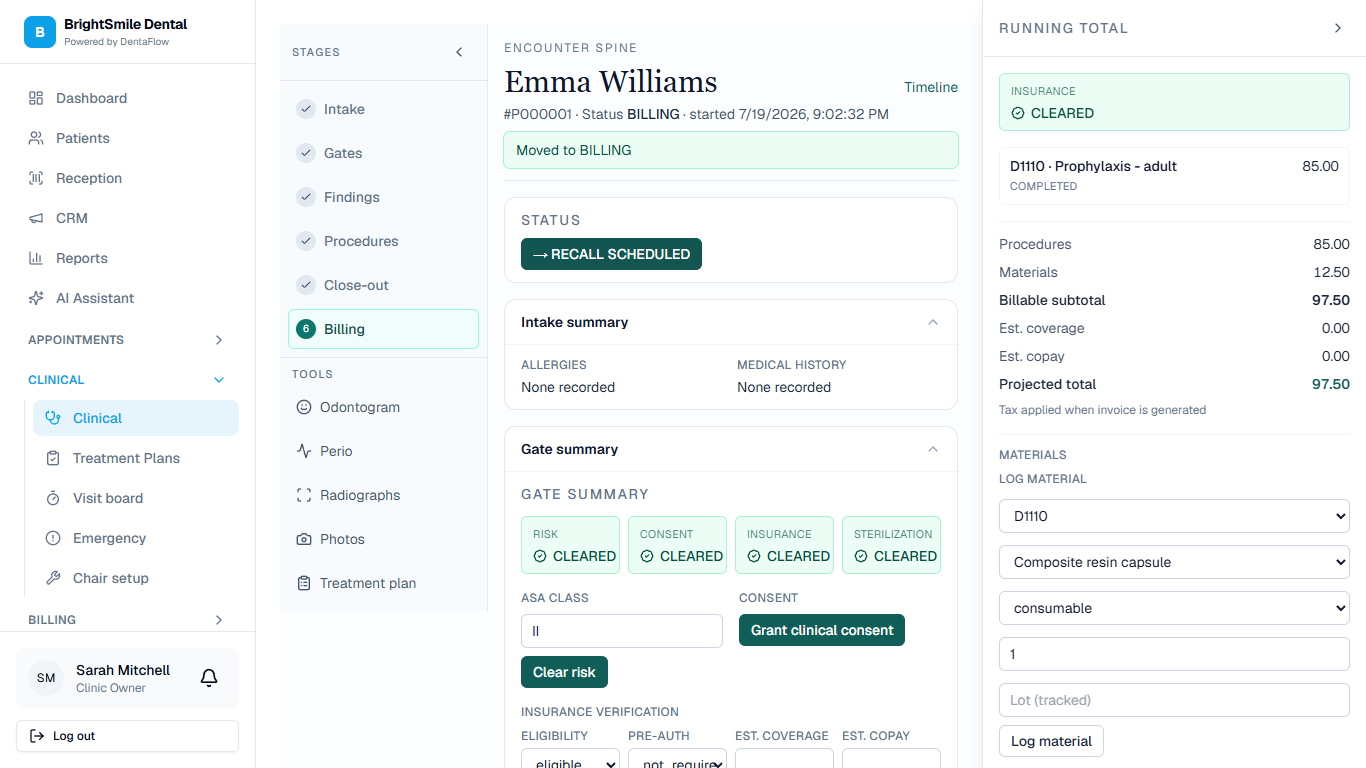
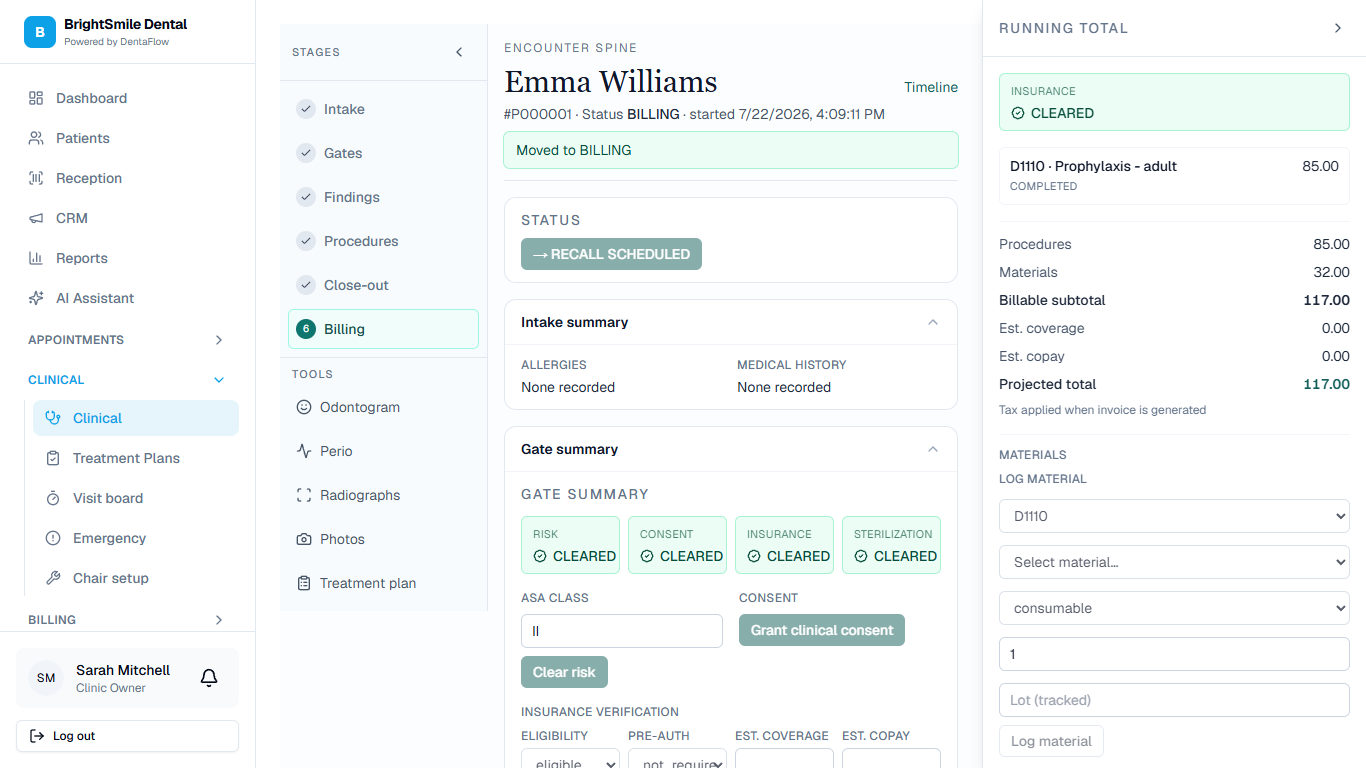
test(module6): refresh Phase 2b clicktest evidence against main+PR7
Harden flag-on clicktest for pending gates and material select; capture payerType/tax on invoice; refresh desktop/drawer screenshots after merge.

diff --git a/scripts/phase2-flag-on-ui-clicktest.ts b/scripts/phase2-flag-on-ui-clicktest.ts
@@ -23,8 +23,15 @@ async function login(page: Page) {
 }
 
 async function clickExact(page: Page, name: string) {
-  const btn = page.getByRole("button", { name, exact: true });
-  await btn.first().click({ timeout: 10000 });
+  const btn = page.getByRole("button", { name, exact: true }).first();
+  // Spine actions set client `pending`; buttons use disabled={!canWrite || pending}.
+  await btn.waitFor({ state: "visible", timeout: 15000 });
+  await page.waitForFunction(
+    (el) => el instanceof HTMLButtonElement && !el.disabled,
+    await btn.elementHandle(),
+    { timeout: 30000 },
+  );
+  await btn.click({ timeout: 10000 });
   await page.waitForTimeout(900);
 }
 
@@ -138,10 +145,22 @@ async function main() {
     }
     await procCard.getByText(/COMPLETED/i).first().waitFor({ timeout: 15000 });
 
-    // Pending material preview before log
-    const materialItemSelect = procCard.locator("select").nth(1);
-    const qtyInput = procCard.locator('input[placeholder="Qty"]');
-    if ((await materialItemSelect.count()) > 0 && (await qtyInput.count()) > 0) {
+    // Pending material preview before log (material selects live in billing drawer / materials slot)
+    const materialItemSelect = page
+      .locator("select")
+      .filter({ has: page.locator('option', { hasText: /Select material/i }) })
+      .first();
+    const qtyInput = page.locator('input[placeholder="Qty"]').first();
+    const materialOptionCount =
+      (await materialItemSelect.count()) > 0
+        ? await materialItemSelect.locator("option").count()
+        : 0;
+    report.materialOptionCount = materialOptionCount;
+    if (
+      materialOptionCount > 1 &&
+      (await materialItemSelect.count()) > 0 &&
+      (await qtyInput.count()) > 0
+    ) {
       await materialItemSelect.selectOption({ index: 1 });
       await qtyInput.fill("2");
       await page.waitForTimeout(300);
@@ -164,6 +183,9 @@ async function main() {
       // Re-select for log
       await materialItemSelect.selectOption({ index: 1 });
       await qtyInput.fill("1");
+    } else {
+      report.pendingMaterialVisible = false;
+      report.pendingMaterialSkipped = "no inventory options in material select";
     }
 
     // Material if selects present
@@ -235,6 +257,11 @@ async function main() {
       orderBy: { createdAt: "desc" },
       include: { items: true },
     });
+    // PR #7 interaction: billing drawer / invoice must carry payerType + tax fields
+    report.invoicePayerType = invoice
+      ? ((invoice as { payerType?: string | null }).payerType ?? null)
+      : null;
+    report.invoiceTax = invoice ? invoice.tax.toString() : null;
 
     let double = "n/a";
     const billedEncounter = encounters.find((e) => e.id === invoice?.encounterId);
@@ -268,6 +295,7 @@ async function main() {
           number: invoice.invoiceNumber,
           total: invoice.total.toString(),
           tax: invoice.tax.toString(),
+          payerType: (invoice as { payerType?: string | null }).payerType ?? null,
           items: invoice.items.map((i) => ({
             description: i.description,
             total: i.total.toString(),
